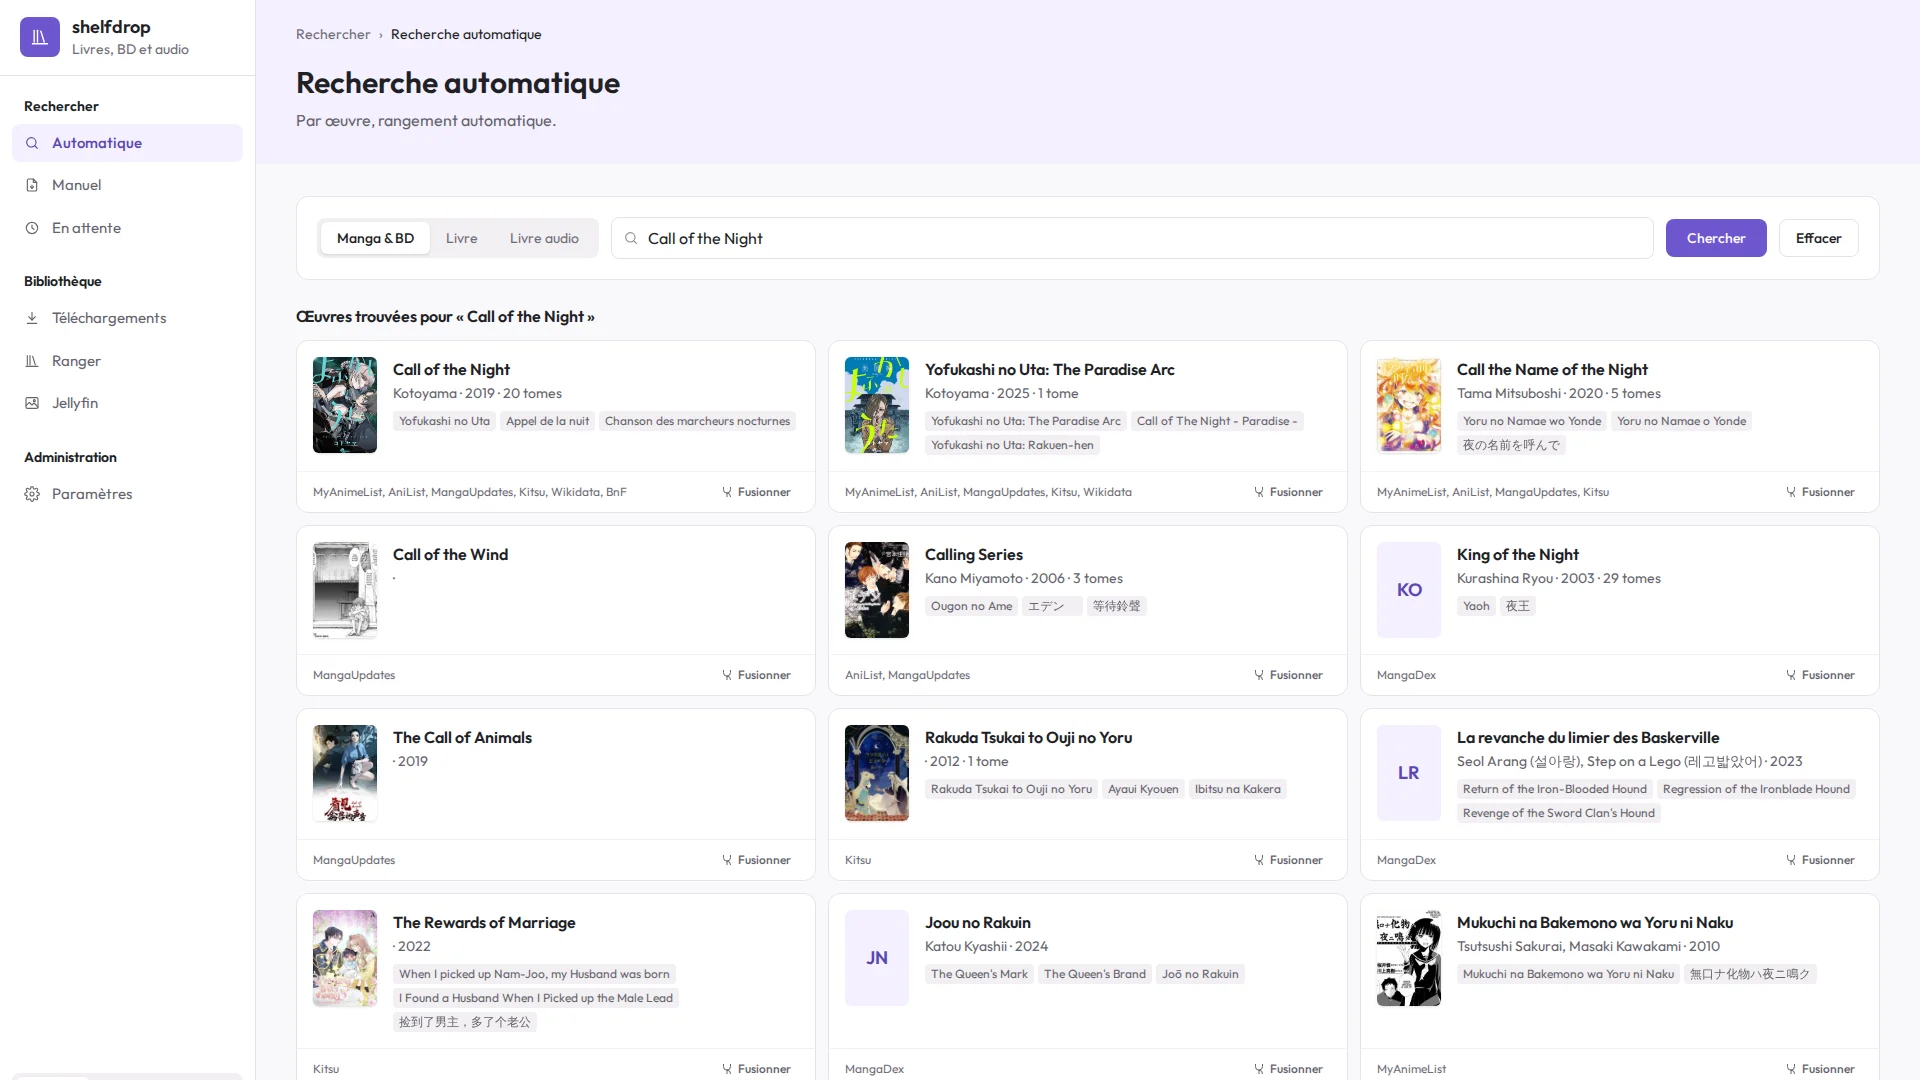
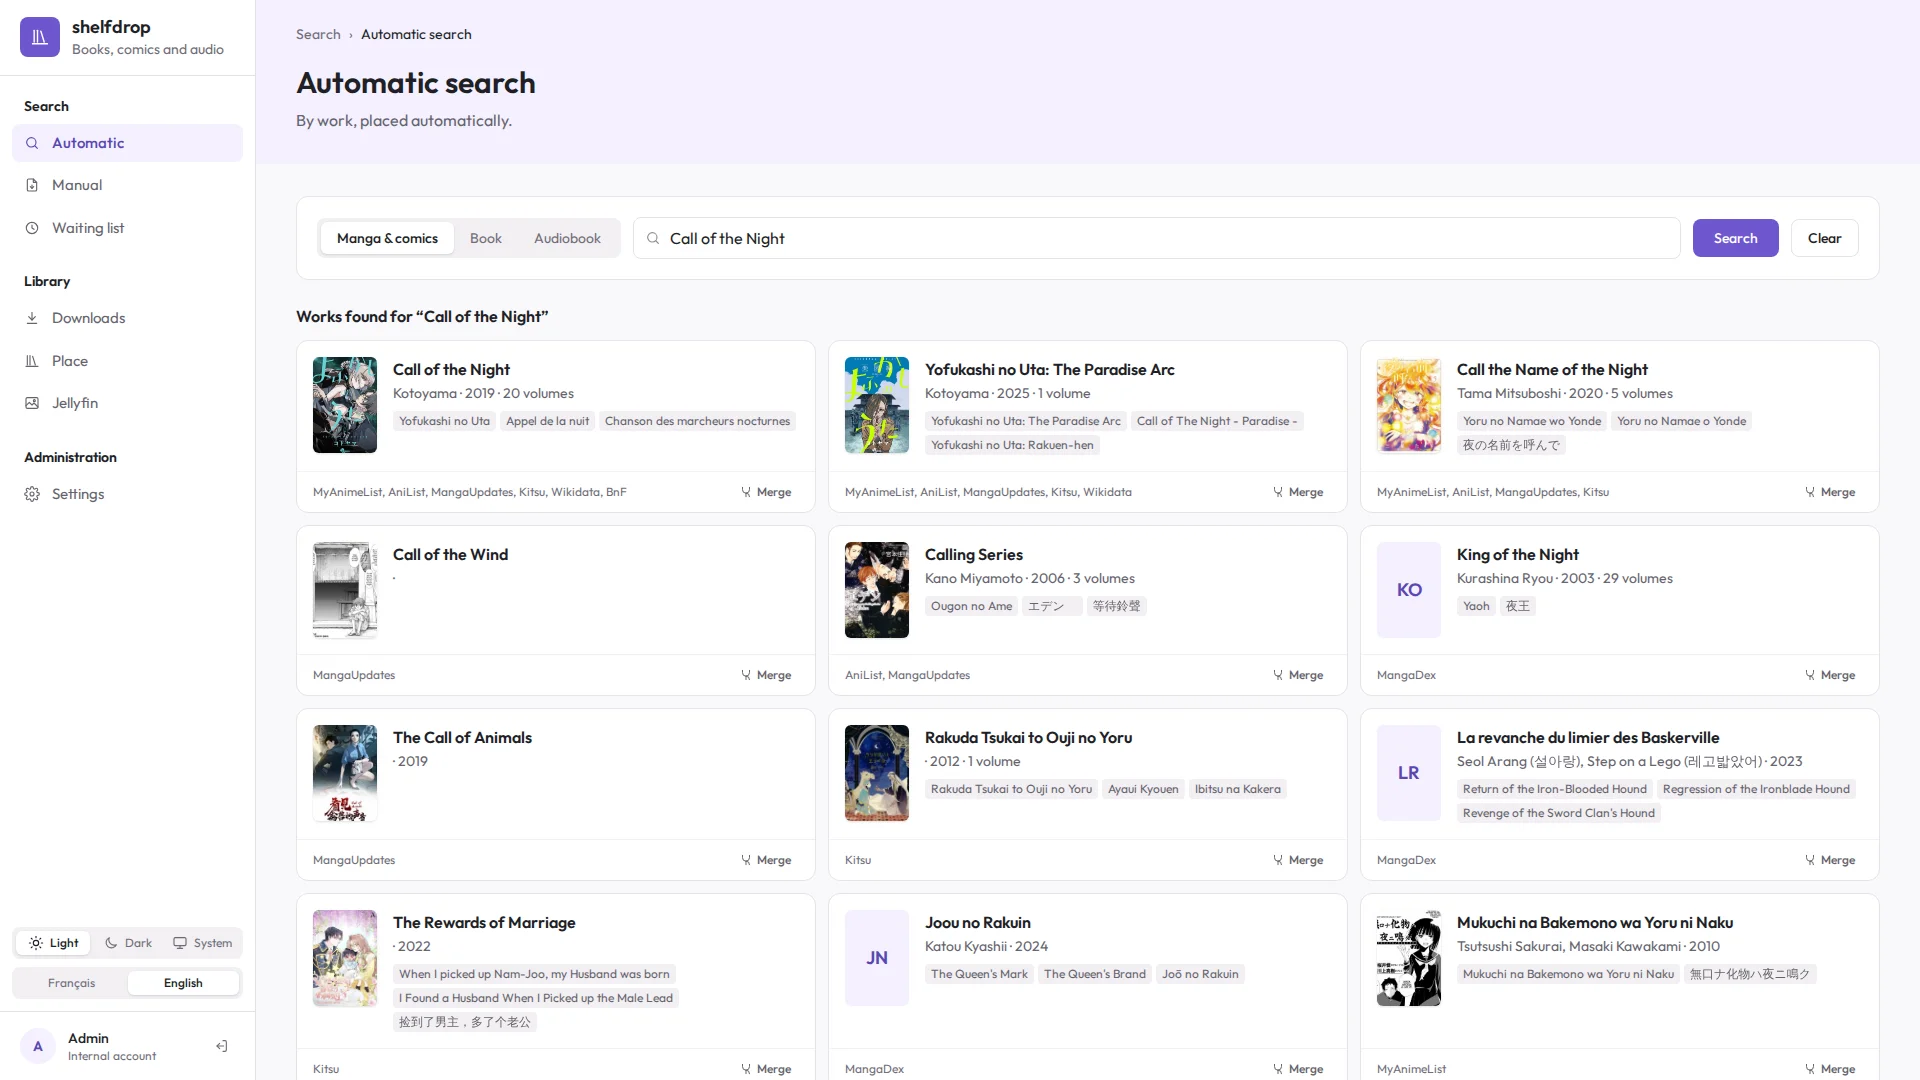
docs: take the screenshots of the README in English, on 0.14

diff --git a/README.md b/README.md
@@ -26,14 +26,14 @@ shelfdrop sits next to Prowlarr, a torrent client and Jellyfin on a media server
   </tr>
   <tr>
     <td width="50%"><a href="docs/screenshots/jellyfin-series.webp"><img src="docs/screenshots/jellyfin-series.webp" alt="Jellyfin page: the series of the libraries"></a><br><sub>Jellyfin page: the series of the libraries</sub></td>
-    <td width="50%"><a href="docs/screenshots/jellyfin-series-dialog.webp"><img src="docs/screenshots/jellyfin-series-dialog.webp" alt="A series: its metadata, covers proposed by the sources, its volumes"></a><br><sub>A series: its metadata, covers proposed by the sources, its volumes</sub></td>
+    <td width="50%"><a href="docs/screenshots/jellyfin-series-dialog.webp"><img src="docs/screenshots/jellyfin-series-dialog.webp" alt="A series: its work, the names, covers and summaries proposed by the sources, its volumes"></a><br><sub>A series: its work, the names, covers and summaries proposed by the sources, its volumes</sub></td>
   </tr>
   <tr>
-    <td width="50%"><a href="docs/screenshots/ranger.webp"><img src="docs/screenshots/ranger.webp" alt="Ranger: the files to link by hand, and every file of the library"></a><br><sub>Ranger: the files to link by hand, and every file of the library</sub></td>
+    <td width="50%"><a href="docs/screenshots/place.webp"><img src="docs/screenshots/place.webp" alt="Place: the files to match by hand, and every file of the library"></a><br><sub>Place: the files to match by hand, and every file of the library</sub></td>
     <td width="50%"><a href="docs/screenshots/waiting-list.webp"><img src="docs/screenshots/waiting-list.webp" alt="Waiting list: searches run again until a release shows up"></a><br><sub>Waiting list: searches run again until a release shows up</sub></td>
   </tr>
   <tr>
-    <td width="50%"><a href="docs/screenshots/settings-services.webp"><img src="docs/screenshots/settings-services.webp" alt="Settings: Prowlarr, qBittorrent through qui, Jellyfin"></a><br><sub>Settings: Prowlarr, qBittorrent through qui, Jellyfin</sub></td>
+    <td width="50%"><a href="docs/screenshots/settings-services.webp"><img src="docs/screenshots/settings-services.webp" alt="Settings: Prowlarr, the torrent client (qBittorrent, qui, Deluge, Transmission), Jellyfin"></a><br><sub>Settings: Prowlarr, the torrent client (qBittorrent, qui, Deluge, Transmission), Jellyfin</sub></td>
     <td width="50%"><a href="docs/screenshots/settings-logs.webp"><img src="docs/screenshots/settings-logs.webp" alt="Settings: the logs of the API and of the placement worker"></a><br><sub>Settings: the logs of the API and of the placement worker</sub></td>
   </tr>
   <tr>

diff --git a/CONTRIBUTING.md b/CONTRIBUTING.md
@@ -45,7 +45,7 @@ docker run --rm --network host --user "$(id -u):$(id -g)" -e HOME=/tmp --env-fil
   sh -c 'npm install --prefix /tmp/shots --no-save --silent playwright@1.56.0 && NODE_PATH=/tmp/shots/node_modules node scripts/screenshots.cjs'
 ```
 
-It writes ten pages at 1920x1080 and two at 390x844 (twice the density) in WebP. It only reads: it signs in, opens the pages, searches a title (`SHELFDROP_SHOTS_QUERY`, RuriDragon by default), shows the releases of the work of an author (`SHELFDROP_SHOTS_AUTHOR`, Shind, for Masaoki Shindō), searches a title with several works for their shot (`SHELFDROP_SHOTS_WORKS_QUERY`, Call of the Night) and another on the phone (`SHELFDROP_SHOTS_PHONE_QUERY`, Monster) and opens a series (`SHELFDROP_SHOTS_SERIES`, Kaguya-sama by default); any other write of the pages is aborted in the browser. The addresses of the services are replaced by neutral ones before their shot; read every image before committing it, the rest of the data is that of the target.
+It writes ten pages at 1920x1080, in English (`SHELFDROP_SHOTS_LANGUAGE=fr` for French), and two at 390x844 (twice the density) in WebP. It only reads: it signs in, opens the pages, searches a title (`SHELFDROP_SHOTS_QUERY`, RuriDragon by default), shows the releases of the work of an author (`SHELFDROP_SHOTS_AUTHOR`, Shind, for Masaoki Shindō), searches a title with several works for their shot (`SHELFDROP_SHOTS_WORKS_QUERY`, Call of the Night) and another on the phone (`SHELFDROP_SHOTS_PHONE_QUERY`, Monster) and opens a series (`SHELFDROP_SHOTS_SERIES`, Kaguya-sama by default); any other write of the pages is aborted in the browser. The addresses of the services are replaced by neutral ones before their shot; read every image before committing it, the rest of the data is that of the target.
 
 ## Code and commits
 
